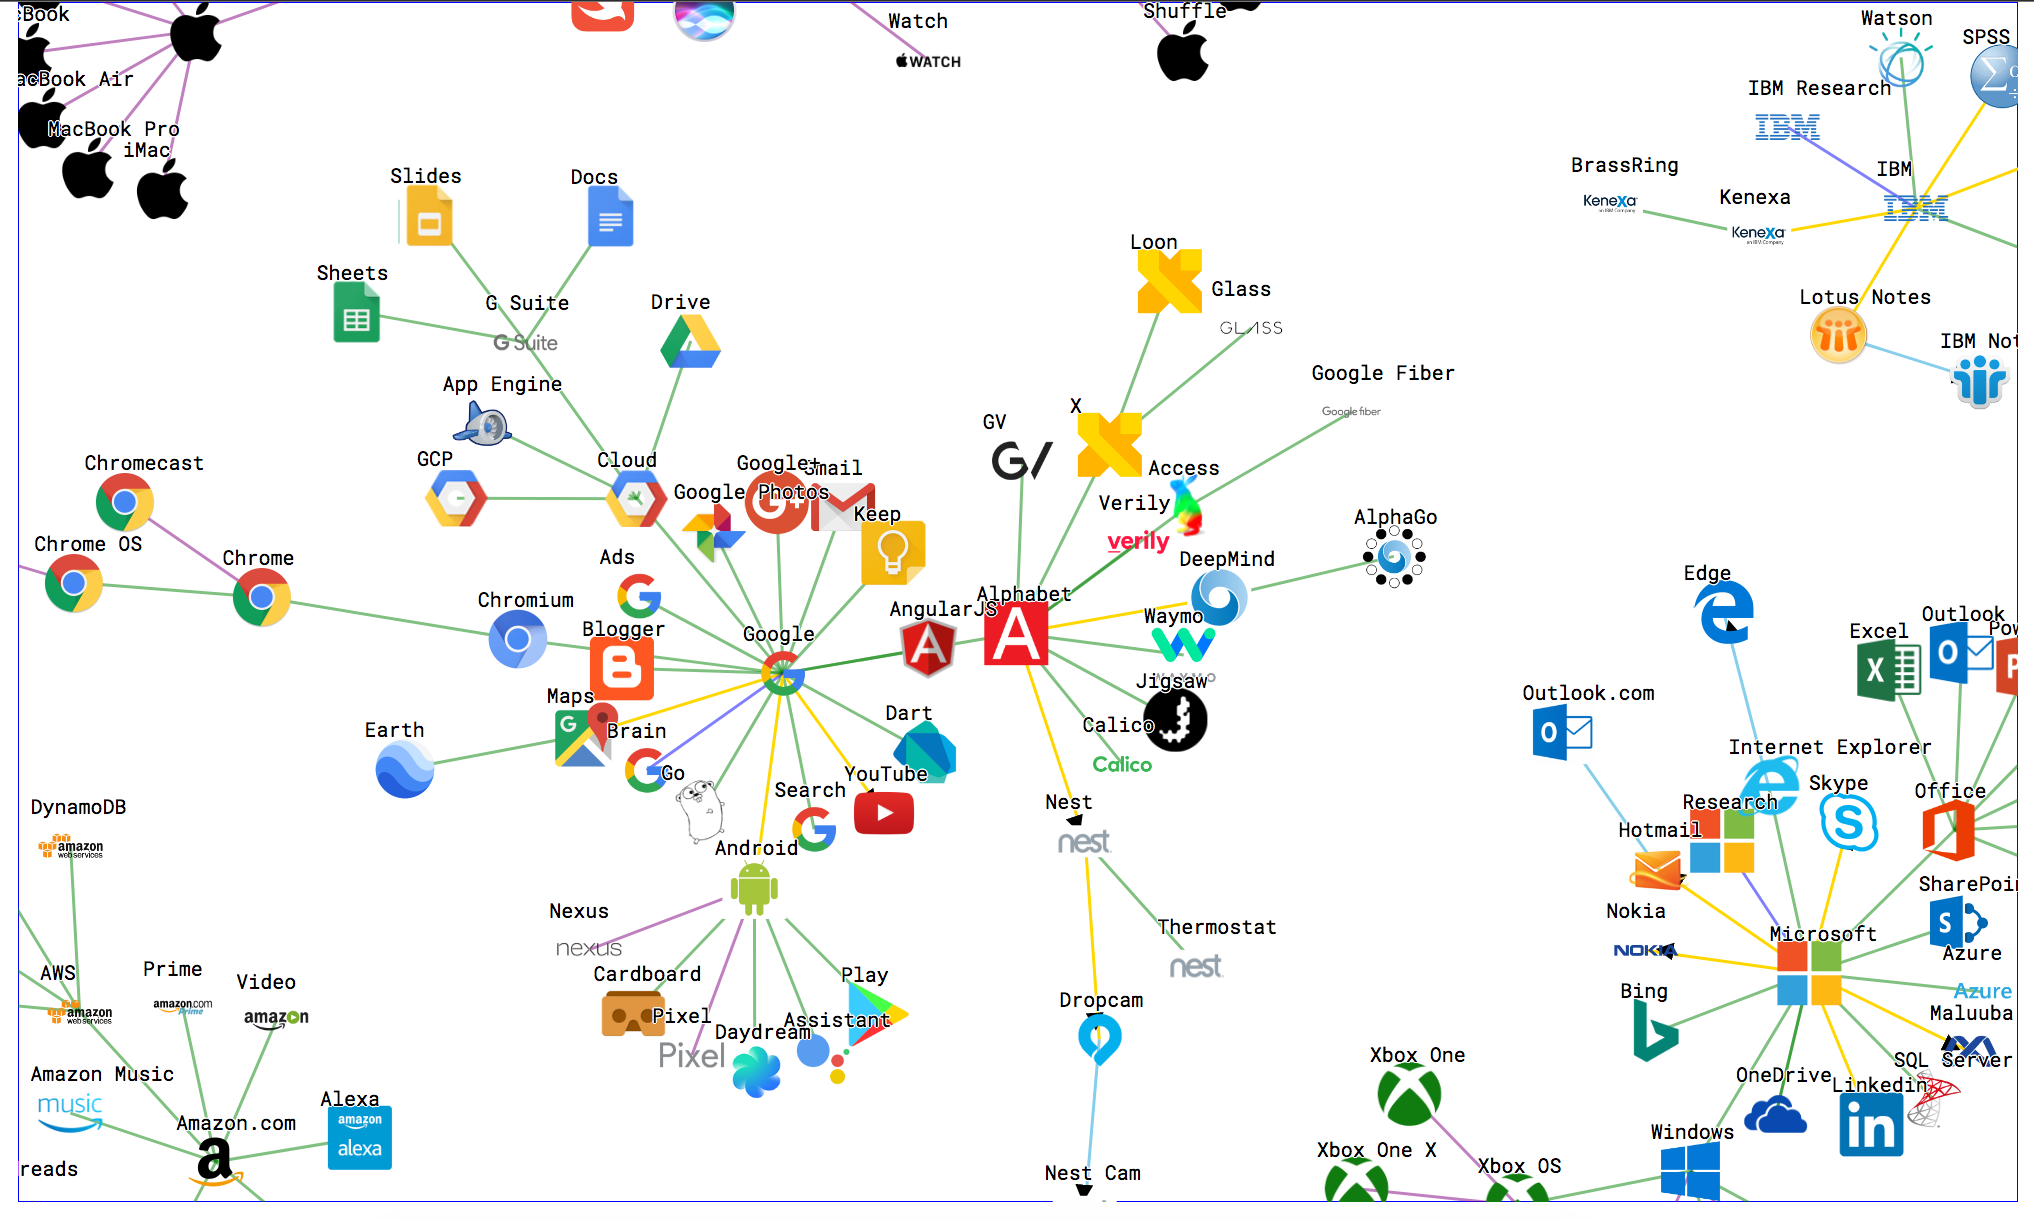
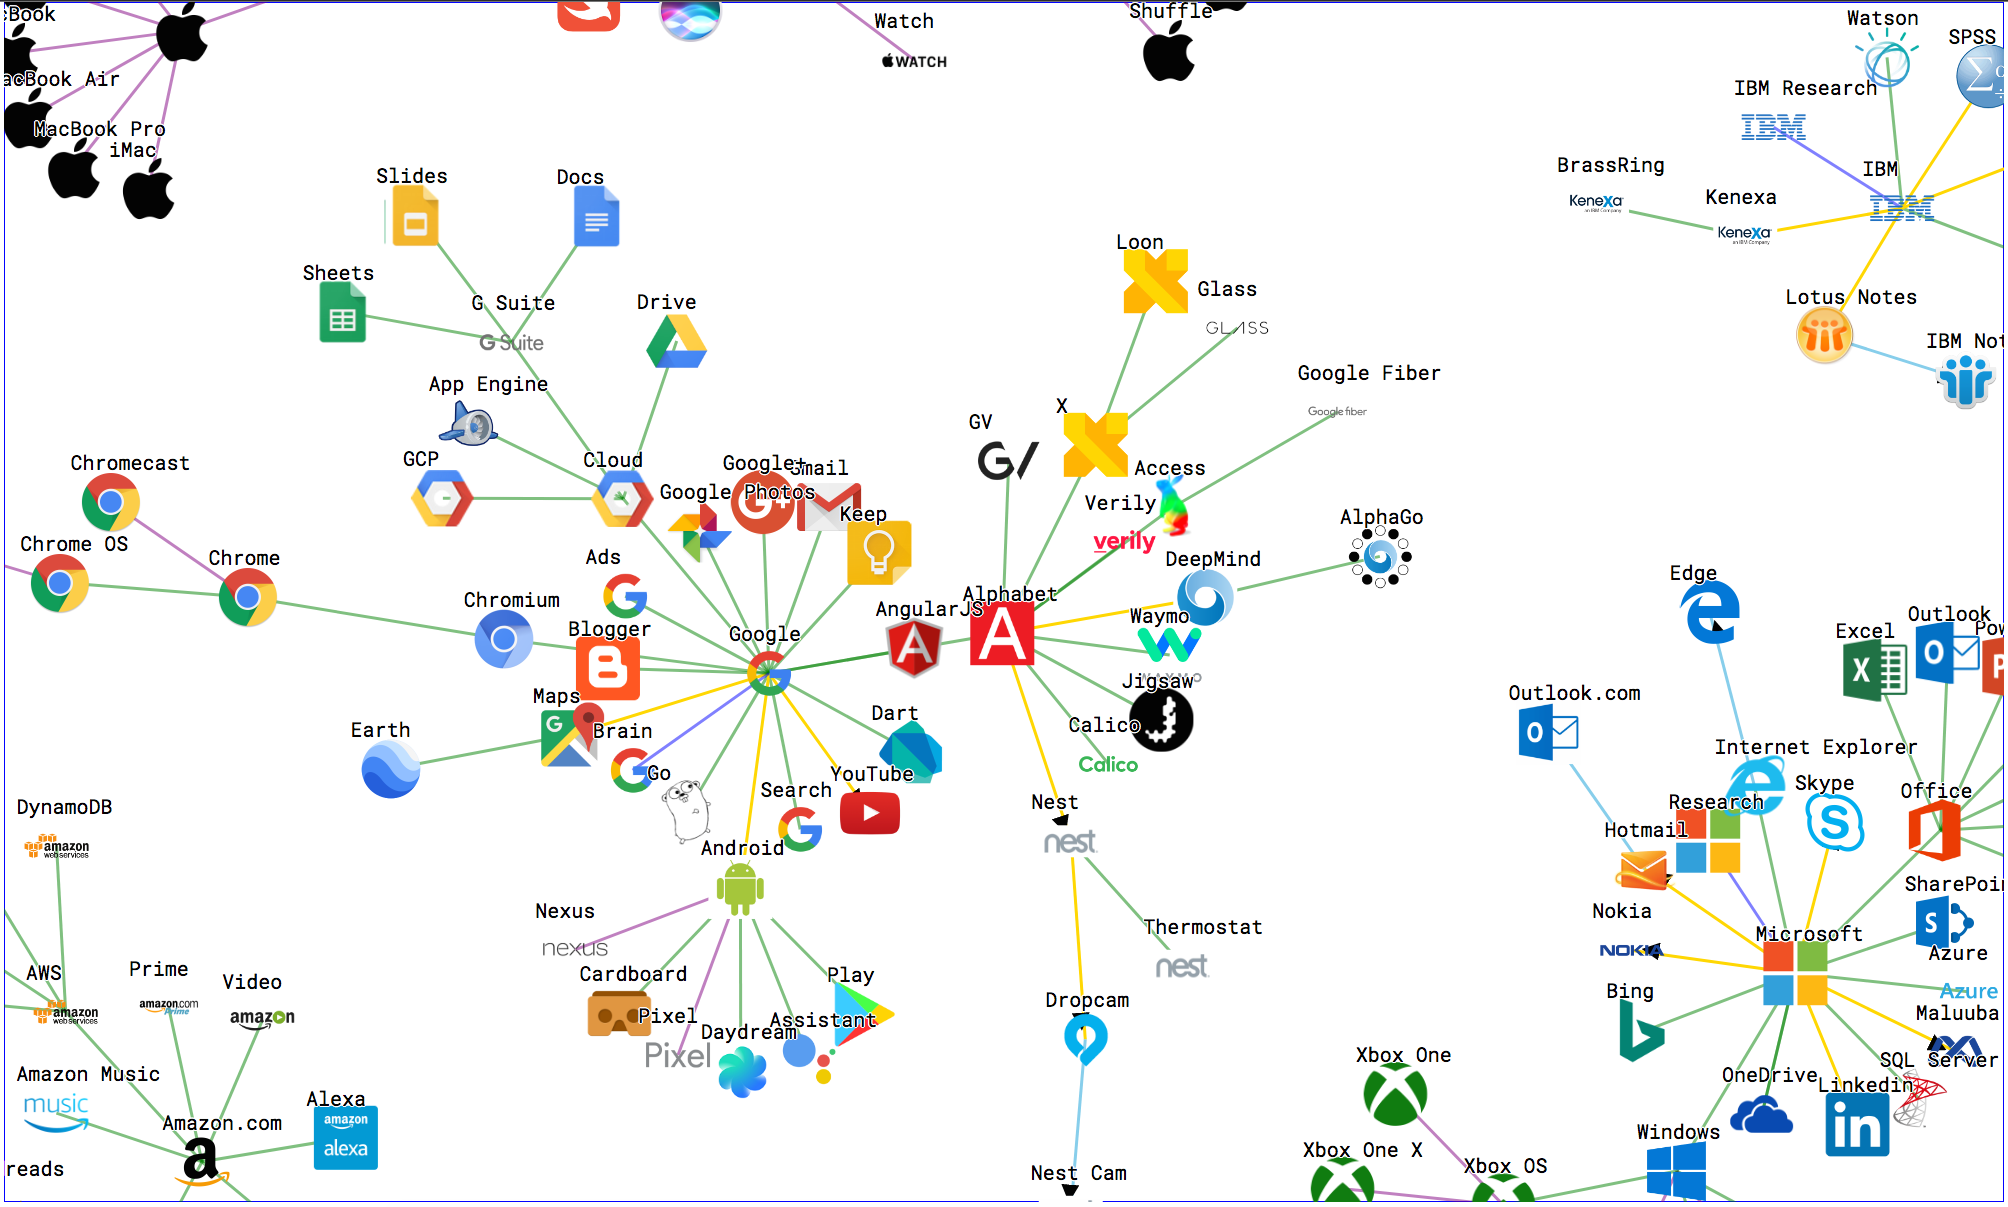
Added write ups

diff --git a/index.html b/index.html
@@ -64,10 +64,22 @@
   <!-- <script type="text/javascript" src="js/tech-graph.js"></script> -->
   <!-- <script type="text/javascript" src="js/d3.js"></script> -->
   
-  <div id="mainDiv" style="text-align:center; ">
+  <div id="mainDiv" style="text-align:center;">
   <svg id="visualization" style="text-align:center;"></svg>
-
   <div>
+    <span style="color:grey; font-style:italic">Disclaimer: All information is presented for informational purposes only. There is no affiliation with any of the companies shown here.</span>
+    <br>
+    Legend:
+    <span style="color:green; opacity: 0.5;"> - main</span>
+    <span style="color:gold;"> - acquisition</span>
+    <span style="color:skyblue;"> - transition</span>
+    <span style="color:purple; opacity: 0.5;"> - hardware</span>
+    <span style="color:blue; opacity: 0.5;"> - research</span>
+    <span style="color:red; opacity: 0.5;"> - competitor/alternative</span>
+    <br>
+    <input type="checkbox" id="checkbox-1" class="mdl-checkbox__input" onclick="a1();" value="logos" checked>
+    <span class="mdl-checkbox__label">Toggle Logos</span>
+    <br>
     <br>
     <span class="mdl-checkbox__label">Companies</span>
   </div>
@@ -129,10 +141,6 @@
   <label class="mdl-checkbox mdl-js-checkbox mdl-js-ripple-effect" for="search" style="display:flex;">
     <input type="checkbox" id="search" class="mdl-checkbox__input" onclick="a1();" value="search">
     <span class="mdl-checkbox__label">Search</span>
-  </label>
-  <label class="mdl-checkbox mdl-js-checkbox mdl-js-ripple-effect" for="vr" style="display:flex;">
-    <input type="checkbox" id="vr" class="mdl-checkbox__input" onclick="a1();" value="vr">
-    <span class="mdl-checkbox__label">VR/AR</span>
   </label>
   <label class="mdl-checkbox mdl-js-checkbox mdl-js-ripple-effect" for="vr" style="display:flex;">
     <input type="checkbox" id="vr" class="mdl-checkbox__input" onclick="a1();" value="vr">

diff --git a/README.md b/README.md
@@ -3,6 +3,8 @@
 A force-directed graph of notable tech companies, their products, and services.
 View the full interactive graph [here](https://nchah.github.io/tech-graph/).
 
+**Disclaimer: All information on this page is presented for informational purposes only. There is no affiliation with any of the companies shown here.**
+
 ![](images/tech-graph.png)
 
 ## Contents
@@ -67,16 +69,26 @@ It's worth pointing out where this graph fall short.
 
 ### General Findings
 
-- Most tech companies have an AI-assisted personal assistant in the market. 
+- Many tech companies have an AI-assisted personal assistant in the market.
 - 
 
 ### Alphabet
 
+- The graph shows Alphabet/Google after it was restructured in 2015. It's quite apparent that Google has the largest product offerings out of the other subsidiaries.
+- Most of the Google products were linked directly to the Google node. There is some branching shown with Android, Chrome, and the Cloud products.
+- It was difficult to find additional nodes to link to some of the other Alphabet subsidiaries like Calico and Jigsaw.
 
 ### Amazon
 
+- There are separate nodes for Amazon and Amazon.com in an attempt to distinguish between the main Amazon products and other subsidiaries, like Whole Foods.
+- With regards to subsidiaries, Amazon have many and they were not all shown here.
+- Amazon Web Services (AWS) offers a large range of products. It was an arbitrary decision to just link to a few of those nodes.
 
 ### Apple
+
+- The Apple graph is structured around the different operating systems that the company maintains. This consistency made it easier to model how Apple software was linked to its various hardware products.
+- There's a separate branch for "Apps". Otherwise, linking them directly to the Apple node made the cluster very crowded and unreadable.
+
 
 
 ### Facebook
